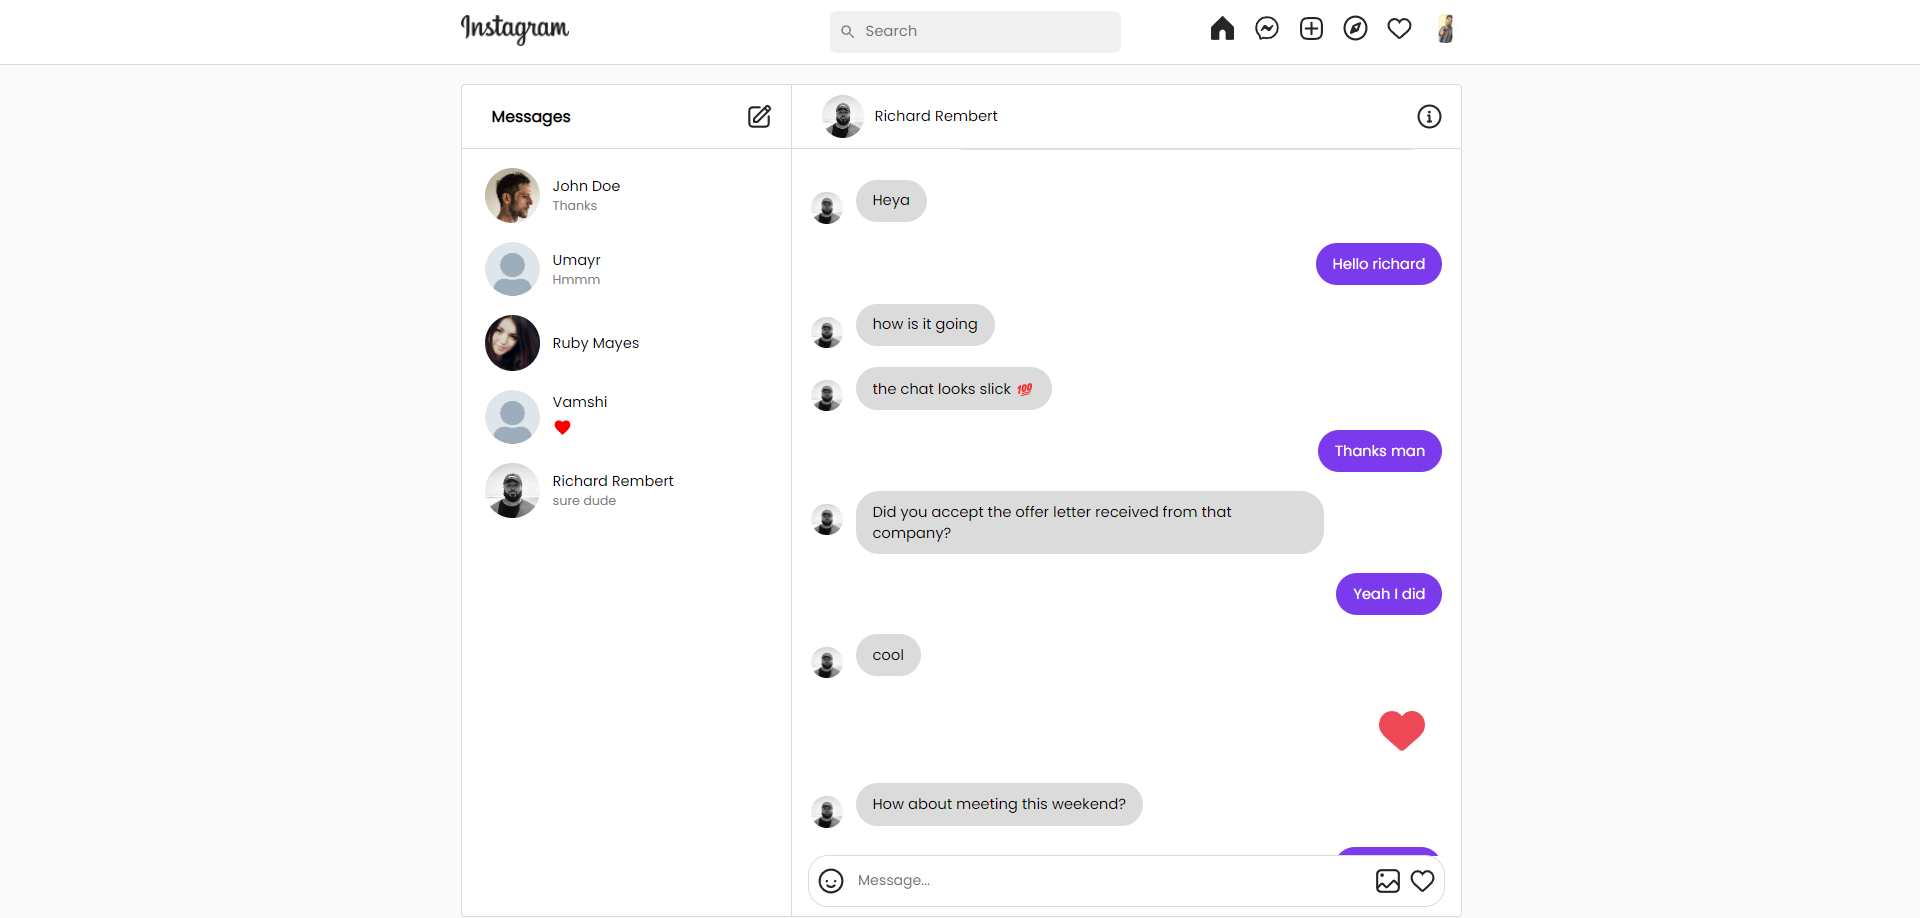
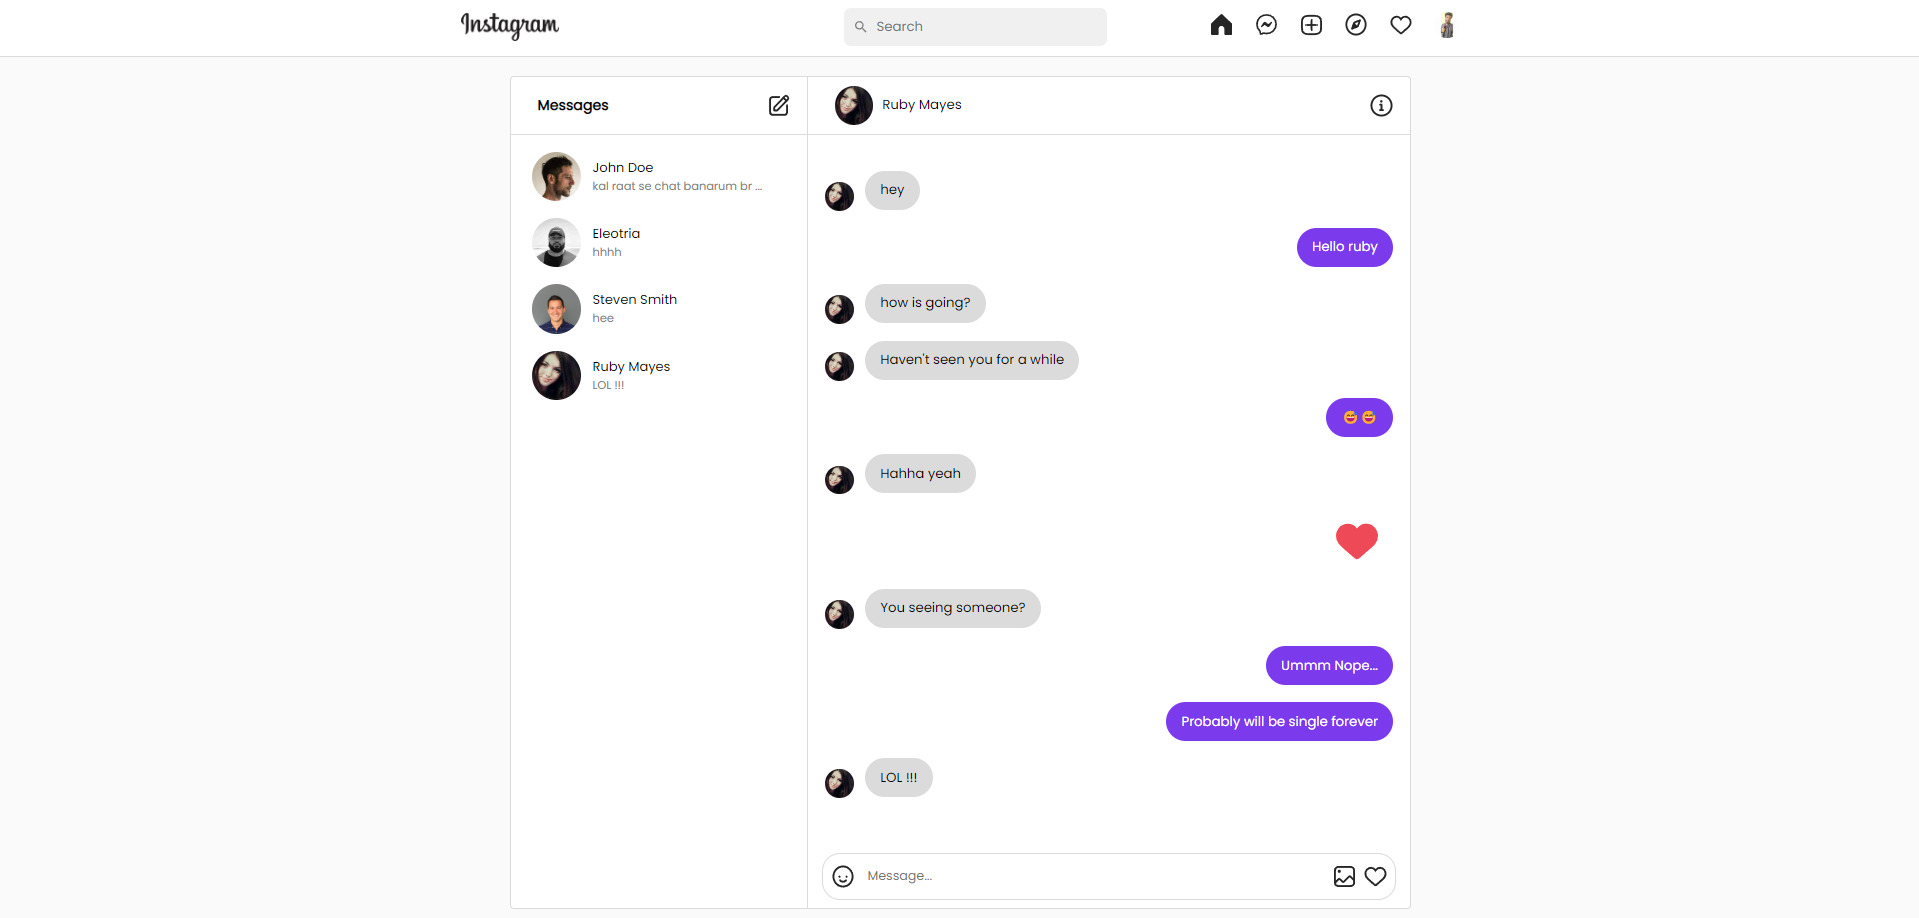
chat ui made alike

diff --git a/frontend/src/components/chat/ChatBox.jsx b/frontend/src/components/chat/ChatBox.jsx
@@ -159,9 +159,9 @@ export default function ChatBox({ roomId }) {
                                         <svg aria-label="Like" className="_ab6-" color="#ed4956" fill="#ed4956" height="44" role="img" viewBox="0 0 48 48" width="44"><path d="M34.6 3.1c-4.5 0-7.9 1.8-10.6 5.6-2.7-3.7-6.1-5.5-10.6-5.5C6 3.1 0 9.6 0 17.6c0 7.3 5.4 12 10.6 16.5.6.5 1.3 1.1 1.9 1.7l2.3 2c4.4 3.9 6.6 5.9 7.6 6.5.5.3 1.1.5 1.6.5s1.1-.2 1.6-.5c1-.6 2.8-2.2 7.8-6.8l2-1.8c.7-.6 1.3-1.2 2-1.7C42.7 29.6 48 25 48 17.6c0-8-6-14.5-13.4-14.5z"></path></svg>
                                     </div> :
                                     msg.file ? <div className="my_text" style={{ marginLeft: 'auto', width: 'fit-content', marginRight: '18px', color: 'white', padding: '10px 16px', borderRadius: '22px', marginTop: '18px', display: 'flex', justifyContent: 'center', alignItems: 'center', }}>
-                                        <img style={{ maxWidth: '450px', borderRadius: '14px', border: '1px solid #e3e3e3' }} src={msg.message} alt="img" />
+                                        <img style={{ maxWidth: '400px', borderRadius: '14px', border: '1px solid #e3e3e3' }} src={msg.message} alt="img" />
                                     </div> :
-                                        <div className="my_text" style={{ marginLeft: 'auto', width: 'fit-content', marginRight: '18px', backgroundColor: '#7c3aed', color: 'white', padding: '10px 16px', borderRadius: '22px', marginTop: '18px', maxWidth: '65%' }}>
+                                        <div className="my_text" style={{ marginLeft: 'auto', width: 'fit-content', marginRight: '18px', backgroundColor: '#7c3aed', color: 'white', padding: '10px 16px', borderRadius: '22px', marginTop: '18px', maxWidth: '60%' }}>
                                             {
                                                 msg.message
                                             }
@@ -179,13 +179,13 @@ export default function ChatBox({ roomId }) {
                                         <div className="other_partytext" style={{ display: 'flex', flexDirection: 'row', alignItems: 'flex-start', marginTop: '18px', }}>
                                             <img style={{ width: '30px', borderRadius: '50%', marginTop: '15px', marginLeft: '18px' }} src={roomImage || defaultImg} alt="" />
                                             <div className="other_text" style={{ width: 'fit-content', marginLeft: '12px', color: 'black', padding: '10px 16px', borderRadius: '22px', display: 'flex', justifyContent: 'center', alignItems: 'center', fontSize: '22px' }}>
-                                                <img style={{ maxWidth: '450px', borderRadius: '14px', border: '1px solid #e3e3e3', marginLeft: '-8px' }} src={msg.message} alt="img" />
+                                                <img style={{ maxWidth: '400px', borderRadius: '14px', border: '1px solid #e3e3e3', marginLeft: '-8px' }} src={msg.message} alt="img" />
                                             </div>
                                         </div>
                                         :
                                         <div className="other_partytext" style={{ display: 'flex', flexDirection: 'row', alignItems: 'flex-start', marginTop: '18px', }}>
                                             <img style={{ width: '30px', borderRadius: '50%', marginTop: '12px', marginLeft: '18px' }} src={roomImage || defaultImg} alt="" />
-                                            <div className="other_text" style={{ width: 'fit-content', marginLeft: '12px', backgroundColor: '#dbdbdb', color: 'black', padding: '10px 16px', borderRadius: '22px', maxWidth: '65%' }}>
+                                            <div className="other_text" style={{ width: 'fit-content', marginLeft: '12px', backgroundColor: '#dbdbdb', color: 'black', padding: '10px 16px', borderRadius: '22px', maxWidth: '60%' }}>
                                                 {msg.message}
                                             </div>
                                         </div>

diff --git a/frontend/src/pages/Chat.jsx b/frontend/src/pages/Chat.jsx
@@ -19,7 +19,7 @@ export const Chat = () => {
   }, [])
 
   return (
-    <div className="chatpage" style={{ width: '100%', backgroundColor: 'white', marginTop: '18px', border: '1px solid #dbdbdb', display: 'flex', flexDirection: 'row', height: '90vh', marginBottom: '3vh', borderRadius: '4px' }}>
+    <div className="chatpage" style={{ width: '90%', backgroundColor: 'white', border: '1px solid #dbdbdb', display: 'flex', flexDirection: 'row', height: '90vh', margin: 'auto', marginBottom: '3vh', borderRadius: '4px', marginTop: '2vh', }}>
       <div className="left_chat_bar" style={{ width: '33%', borderRight: '1px solid #dbdbdb', height: '100%', overflowY: 'scroll' }}>
         <div className="username" style={{ borderBottom: '1px solid #dbdbdb', width: '100%', height: '60px', display: 'flex', alignItems: 'center', justifyContent: 'space-between' }}>
           <p style={{ fontWeight: 'bold', fontSize: '15px', marginLeft: '28px' }}>{"Messages"}</p>
